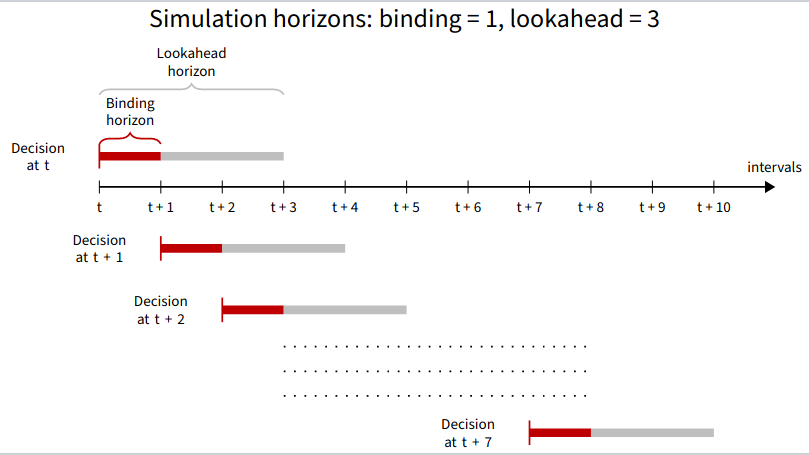
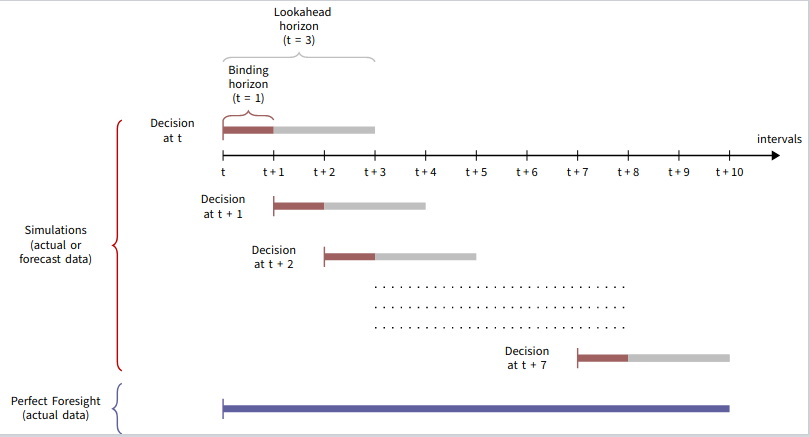
update figure + text in terminology

diff --git a/docs/src/terminology.md b/docs/src/terminology.md
@@ -36,7 +36,11 @@ A *simulation* is a rolling horizon optimal control problem in which:
   2. The model is solved, and certain decisions are considered binding
   3. The next decision time is the last binding interval. The storage state is updated, the lookahead horizon is rolled along, and another model is constructed and solved
   4. This is repeated until the entire simulation period has been simulated
+
+Simulations can be run with actual price data, or with forecast price data.
+
+Results from simulations can be compared to a *perfect foresight* model, in which all intervals are optimised simultaneously using actual price data.
   
-  In the example below, a simulation consists of models with a lookahead horizon of 3 and a binding horizon of 1:
+In the example below, simulations and a perfect foresight model are run from `t` to `t+10`. Each simulation consists of models with a lookahead horizon of 3 and a binding horizon of 1. The perfect foresight model optimises storage device operation over the entire data period.
   
-  ![Example of simulation with a lookahead horizon of 3 and a binding horizon of 1](sim_example.png)
+![Example of simulation with a lookahead horizon of 3 and a binding horizon of 1](sim_example.png)
